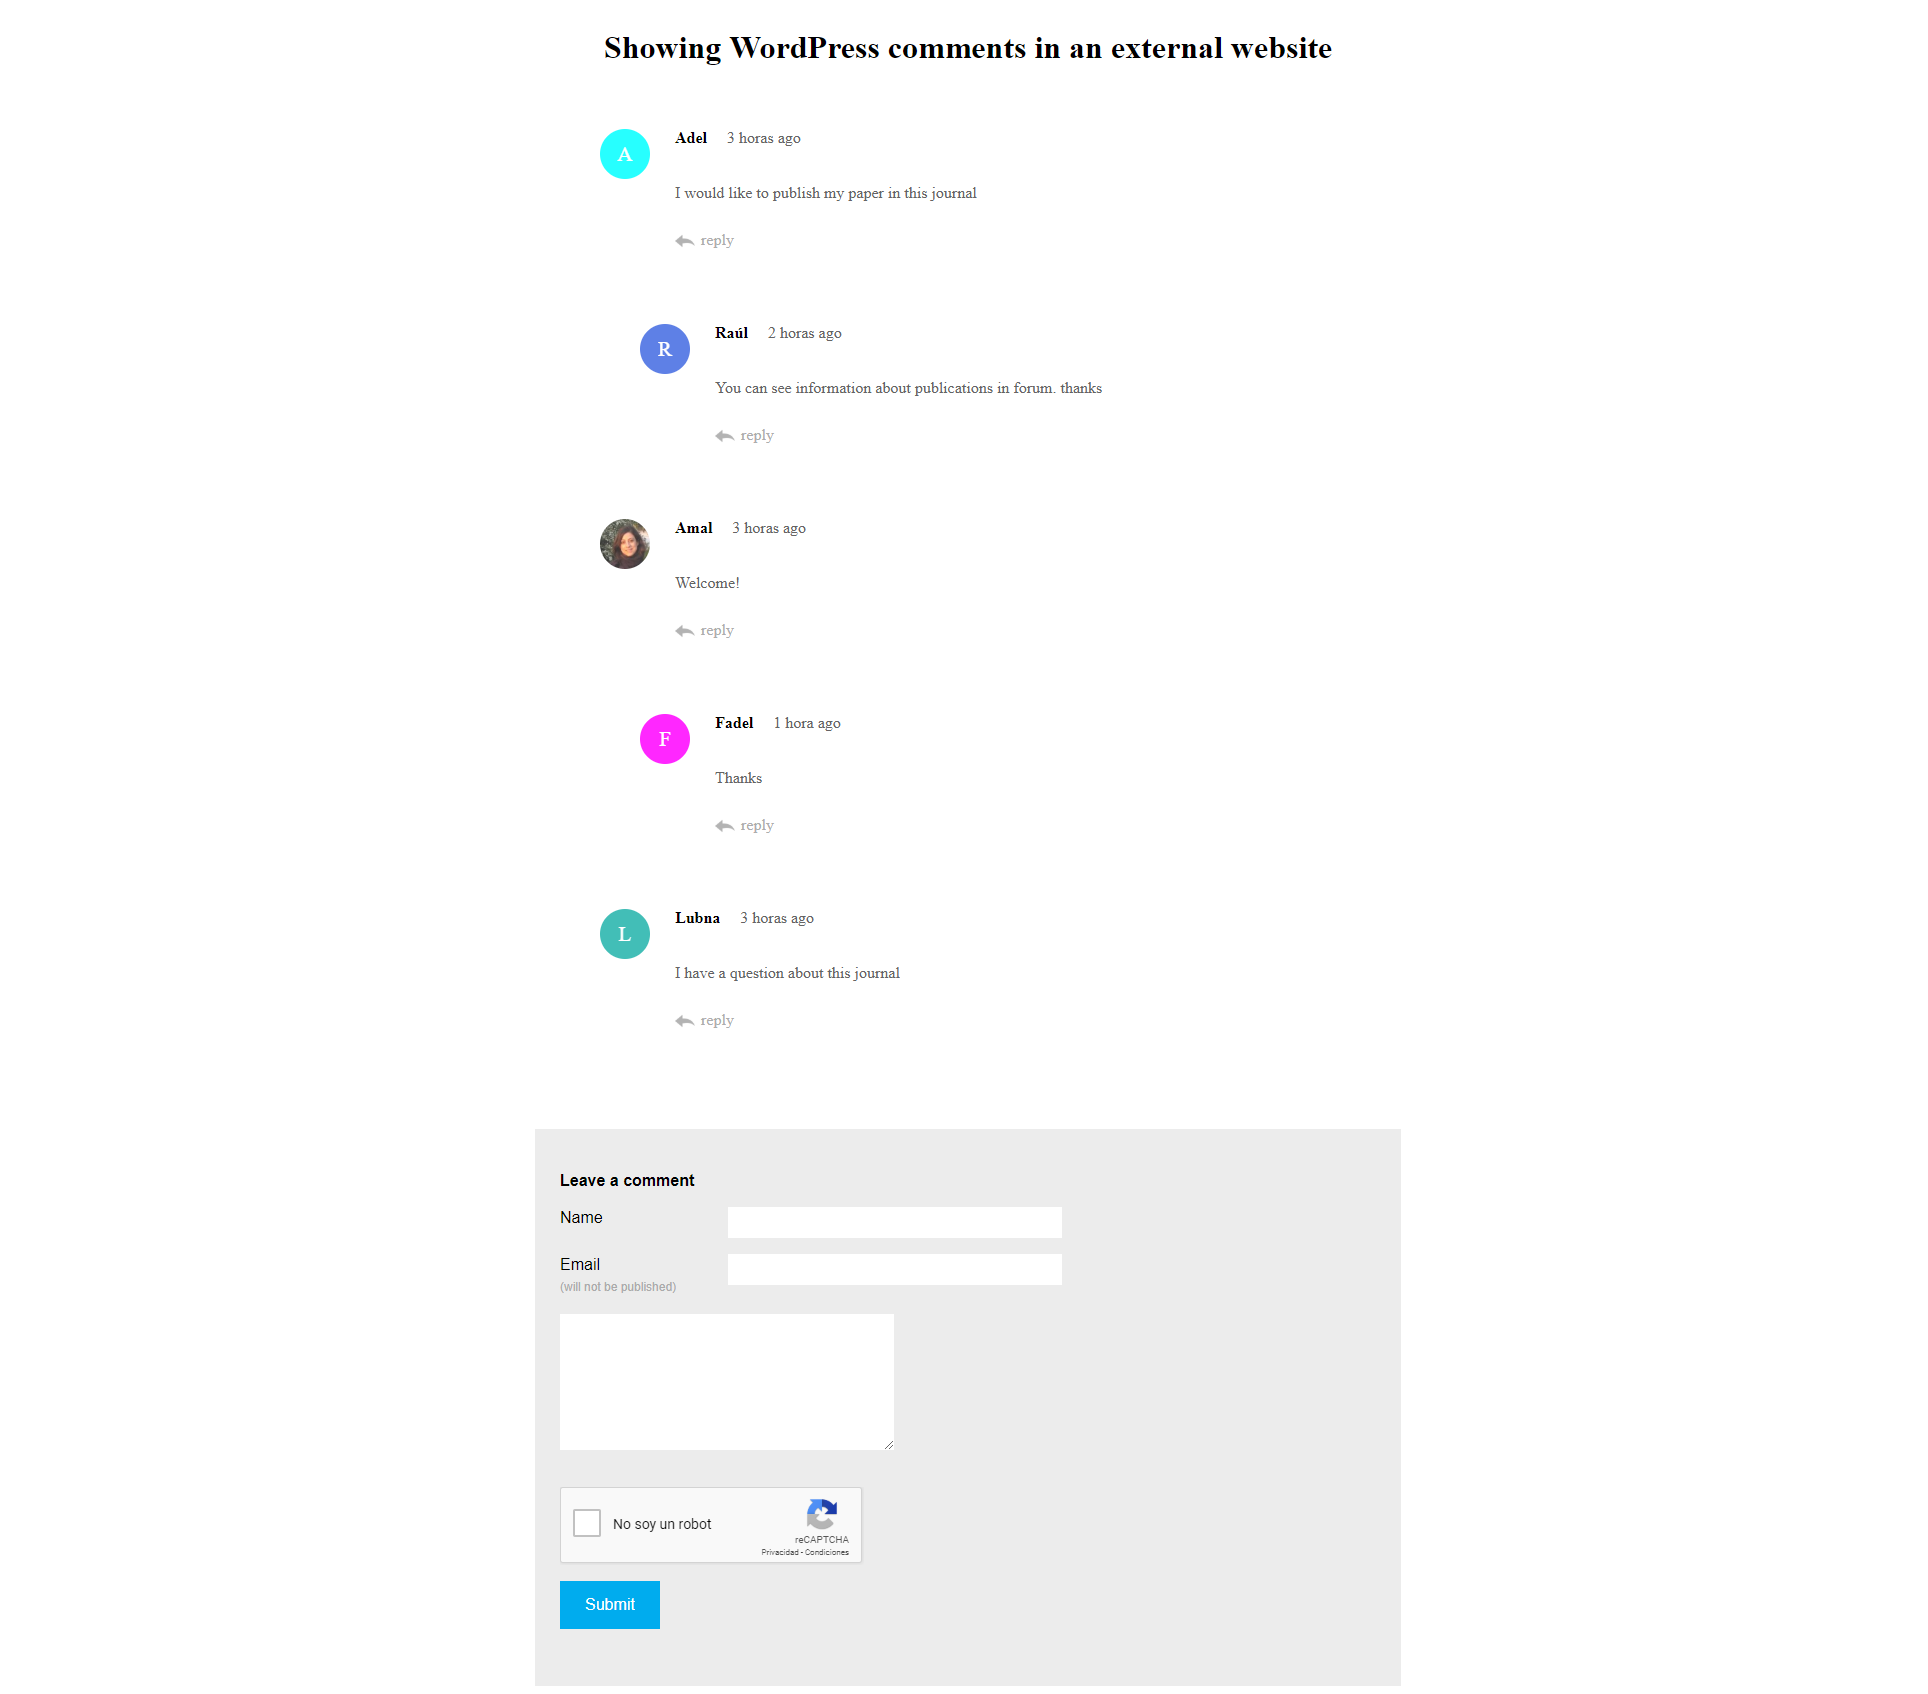
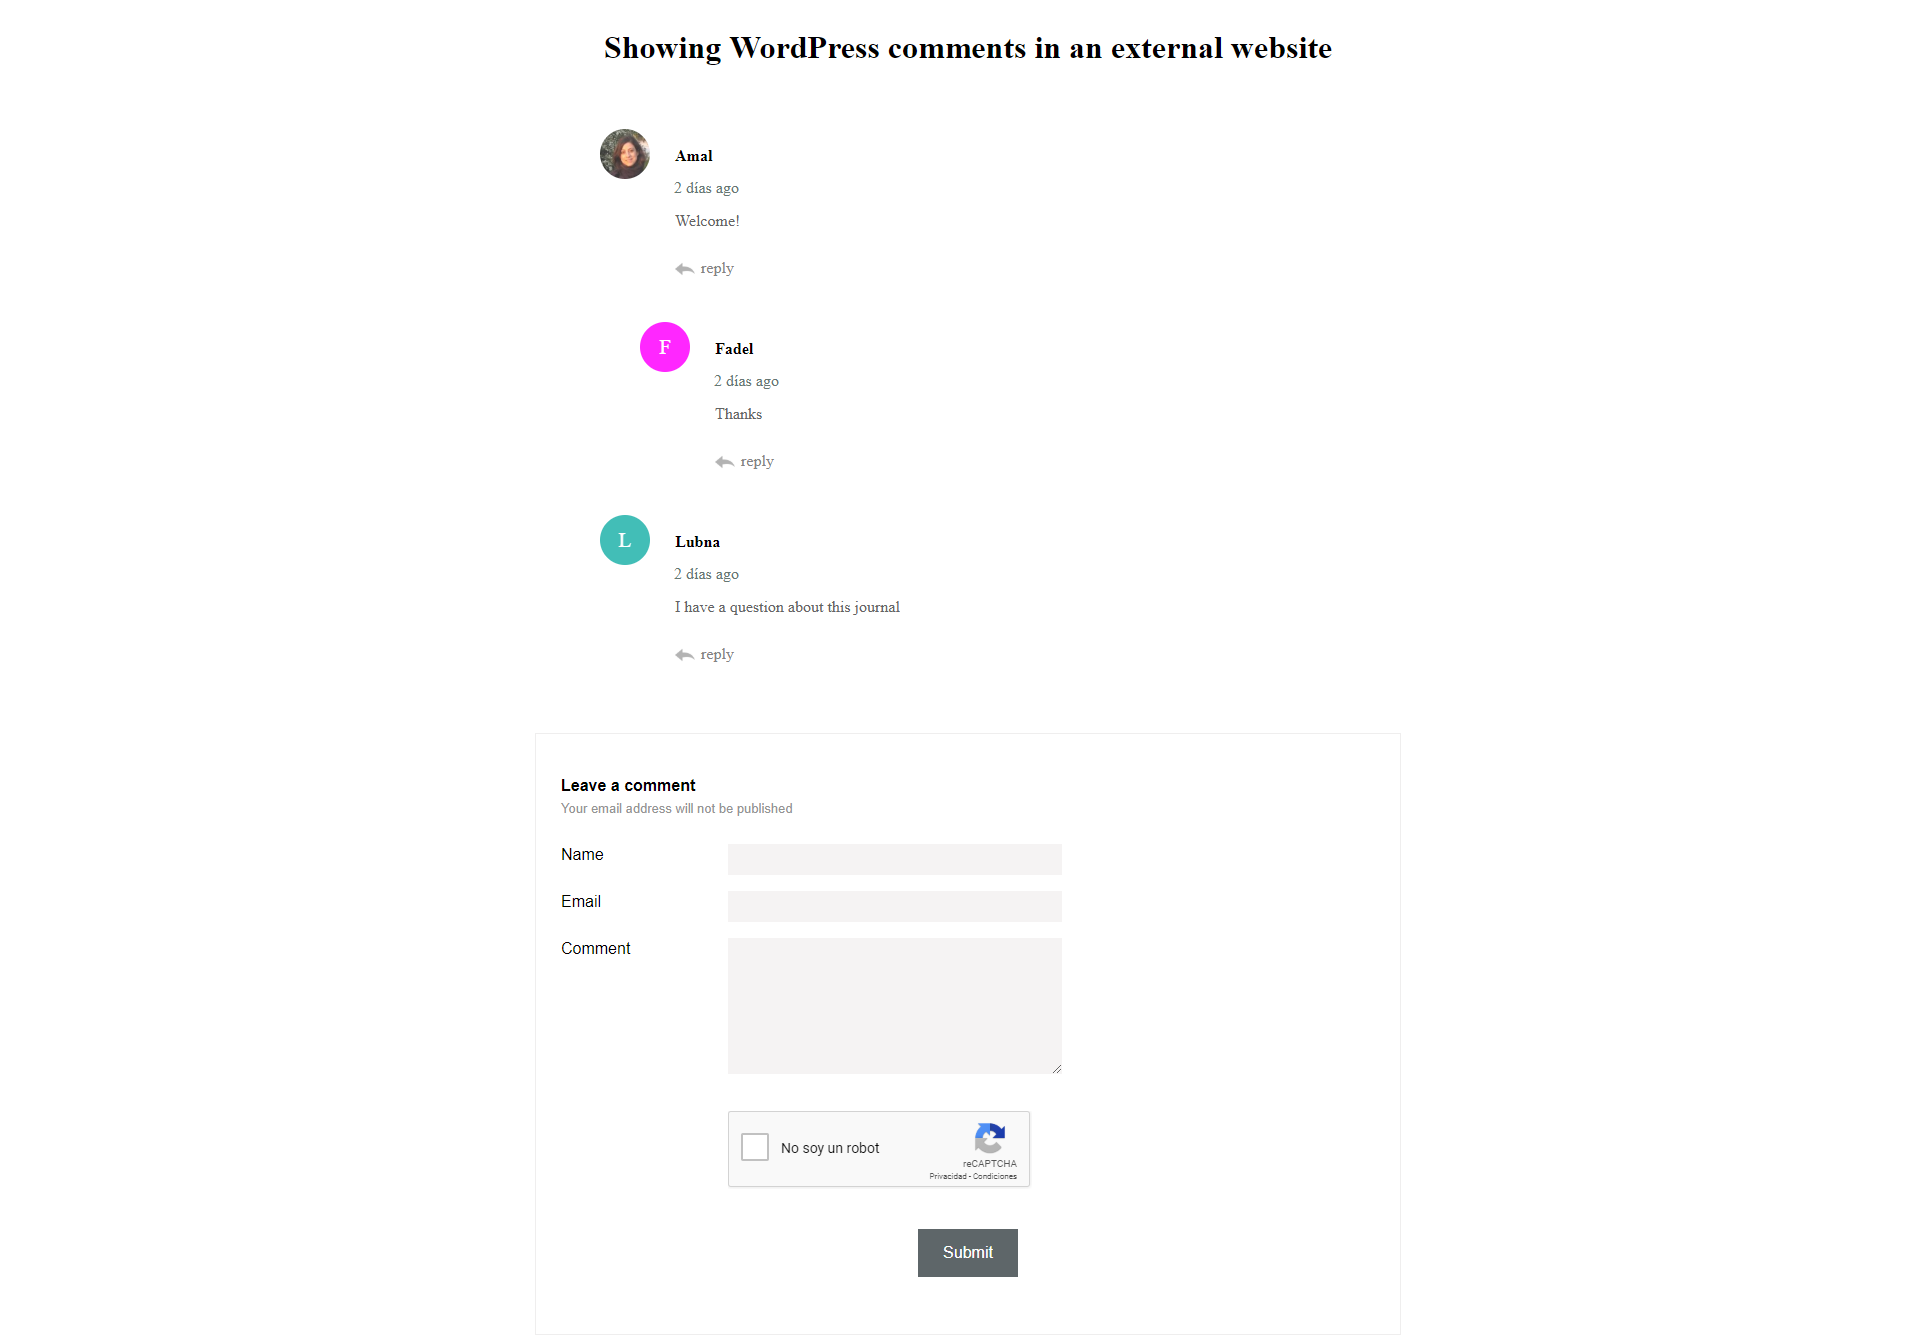
styles example and screencapture

diff --git a/css/comments-styles.css b/css/comments-styles.css
@@ -1,23 +1,22 @@
-/* styles of example WordPress comments list in external site  
-*  Author: Amal Amrani
-*  Author URI:  http://amrani.es/
-*/
+/* styles page */
 
-
+.center{
+text-align: center;
+}
 
 #respond-comment-fromWP-to-external-site {
     font-family: 'Roboto', sans-serif;    
     line-height: 135%;
     font-size: 16px;
     margin-bottom: 50px;
-    background-color: #ececec;
+    
     overflow-y: auto;
-    border:1px solid green;
+    border:1px solid #efeeee;
     display: block;
 }
 
 #wp-comments-response, #respond-comment-fromWP-to-external-site {
-    border: none;
+    /*border: none;*/
     width: 100%;
     max-width: 866px;    
     margin: auto;
@@ -29,6 +28,8 @@
     font-weight: bold;
     font-size: 16px;
     margin-top: 0px;
+    margin-top: 0px;
+    margin-bottom: 2px;
 }
 
 #form-submit-comment-fromWP-to-external-site {
@@ -36,7 +37,7 @@
 }
 
 #form-submit-comment-fromWP-to-external-site p {
-    background-color: rgb(236,236,236);
+    
     overflow: hidden;
 }
 
@@ -49,17 +50,17 @@
     vertical-align: top;
 }
 #form-submit-comment-fromWP-to-external-site p input[type=text], #form-submit-comment-fromWP-to-external-site p textarea {
-    border: white;
-    background-color: white;
-    border: white;
-    background-color: white;
+    border: white;    
+    background-color: #f5f3f3;
     padding: 8px;
     width: 318px;
     max-width: 100%;
 }
 .emailnote {
-    color: rgb(170,170,170);
-    font-size: 12px;
+    color: rgb(148, 148, 148);
+    font-size: 13px;
+    display: block;
+    margin-bottom: 40px;
 }
 
 .nonDisplay {
@@ -81,18 +82,22 @@ button, #submit-comment-fromWP-to-external-site {
 }
 #cancel_reply {
     border: none;
-    background: none;
-    font-size: 14px;
+    /*background: none;*/
+    font-size: 16px;
     color: #717171;
     cursor: pointer;
     margin-right: 16px;
+
+    padding-left: 25px;
+    padding-right: 25px;
 }
 .div-reply-comment {
     margin-top: 25px;
     margin-left: 75px;
+    margin-bottom: 25px;
 }
 span.comment-reply-link {
-    color: rgb(173,173,173);
+    color: rgb(132, 131, 131);
     text-decoration: none;
     font-size: 16px;
     font-weight: normal;
@@ -103,10 +108,14 @@ span.comment-reply-link {
     background-size: 20px 20px;
     cursor: pointer;
 }
+
+.submit-buttons{    
+    text-align: center;
+}
 #form-submit-comment-fromWP-to-external-site input[type=button] {
     color: white;
     font-size: 16px;
-    background-color: #00acee;
+    background-color: #5e6669;
     border: none;
     font-family: 'Roboto', sans-serif;  
     font-weight: normal;
@@ -114,20 +123,28 @@ span.comment-reply-link {
     padding-left: 25px;
     padding-right: 25px;
     cursor: pointer;
-    margin-top: 1em;
+    margin-top: 1.5em;
+}
+
+#form-submit-comment-fromWP-to-external-site input[type=button]:hover{
+        background-color: #5e6669ba;
+}
+
+#html_element{    
+    margin-left: 167px;
 }
 
 
 
 /* comment list*/
 #wp-comments-response ul {
-    margin-top: 75px;
+    margin-top: 45px;
 }
 #wp-comments-response ul, #wp-comments-response ol {
     list-style-type: none;
 }
 #wp-comments-response li {
-    margin-bottom: 75px;
+    margin-bottom: 45px;
 }
 
 .comment-author.vcard{
@@ -170,22 +187,24 @@ span.comment-reply-link {
     bottom: 0;
 }
 .author-name {
-    vertical-align: top;
+    /*vertical-align: top;*/
     font-size: 16px;
     font-weight: bold;    
+    text-transform: capitalize;
 }
 .comment-metadata {
-    display: inline-block;
+    /*display: inline-block;*/
     font-size: 16px;
-    margin-left: 20px;
+    margin-left: 74px;
     vertical-align: top;
-    color: rgb(100,100,100);
+    color: rgb(102, 119, 115);
 }
 .comment-content {
     margin-left: 75px;
     font-size: 16px;
     color: rgb(100,100,100);
     line-height: 170%;
+    margin-top: 10px;
 }
 .reply-item{
   color: #04887a;

diff --git a/index.php b/index.php
@@ -1,5 +1,8 @@
 <?php
+/* 
+Example to integrate WordPress Comments in an external site
 
+*/
 ?>
 <!DOCTYPE html>
 <html  lang="es">
@@ -31,6 +34,7 @@
   <div id="respond-comment-fromWP-to-external-site"  class="hide">
     <div id="feedback_insert_comment"></div>
     <h3>Leave a comment</h3>
+    <span class="emailnote">Your email address will not be published</span>
         
         <form id="form-submit-comment-fromWP-to-external-site" >
 
@@ -41,12 +45,12 @@
             <span class="validation-form-messaje nonDisplay" id="nombre-validation">* Required</span>
           </p>
           <p>
-            <label for="comment-fromWP-to-external-site-email-user">Email<br /><span class="emailnote">(will not be published)</span></label>
+            <label for="comment-fromWP-to-external-site-email-user">Email<br /></label>
             <input id="comment-fromWP-to-external-site-email-user" name="comment-fromWP-to-external-site-email-user" type="text" size="30"/>
             <span class="validation-form-messaje nonDisplay" id="email-validation">* Required</span>
           </p>
           <p>
-            
+            <label for="comment-fromWP-to-external-site-comment-user">Comment<br></label>
             <textarea id="comment-fromWP-to-external-site" name="comment-fromWP-to-external-site" cols="45" rows="8" aria-required="true"></textarea>
             <span class="validation-form-messaje nonDisplay" id="textarea-validation">* Required</span>
           </p>
@@ -56,18 +60,22 @@
             <div id="html_element"></div>  
             <span class="validation-form-messaje nonDisplay" id="captcha-validation" >* Required</span>  
              
-            <button type="button" id="cancel_reply" class="hide" >Cancelar</button>
-            <input name="submit-comment-fromWP-to-external-site" type="button" id="submit-comment-fromWP-to-external-site" class="submit"  onclick="addEventsListenerForm()" value="Submit">
+            <p class="submit-buttons">
+            <button type="button" id="cancel_reply" class="hide" >Cancel</button>
+            <input name="submit-comment-fromWP-to-external-site" type="button" id="submit-comment-fromWP-to-external-site" class="submit"  onclick="addEventsListenerForm()" value="Submit" />
+            </p>
             
-            <input type="hidden" name="comment_fromWP-to-external-site_post_ID" value="" id="comment_fromWP-to-external-site_post_ID">
-            <input type="hidden" name="comment_fromWP-to-external-site_parent" id="comment_fromWP-to-external-site_parent" value="0">
+            <input type="hidden" name="comment_fromWP-to-external-site_post_ID" value="" id="comment_fromWP-to-external-site_post_ID"/>
+            <input type="hidden" name="comment_fromWP-to-external-site_parent" id="comment_fromWP-to-external-site_parent" value="0" />
           </p>
          
          
         </form>
+        <div class="div-captcha">
         <script src="https://www.google.com/recaptcha/api.js?onload=onloadCallback&render=explicit"
           async defer>
         </script>
+        </div>
   </div>
 </div>
 
